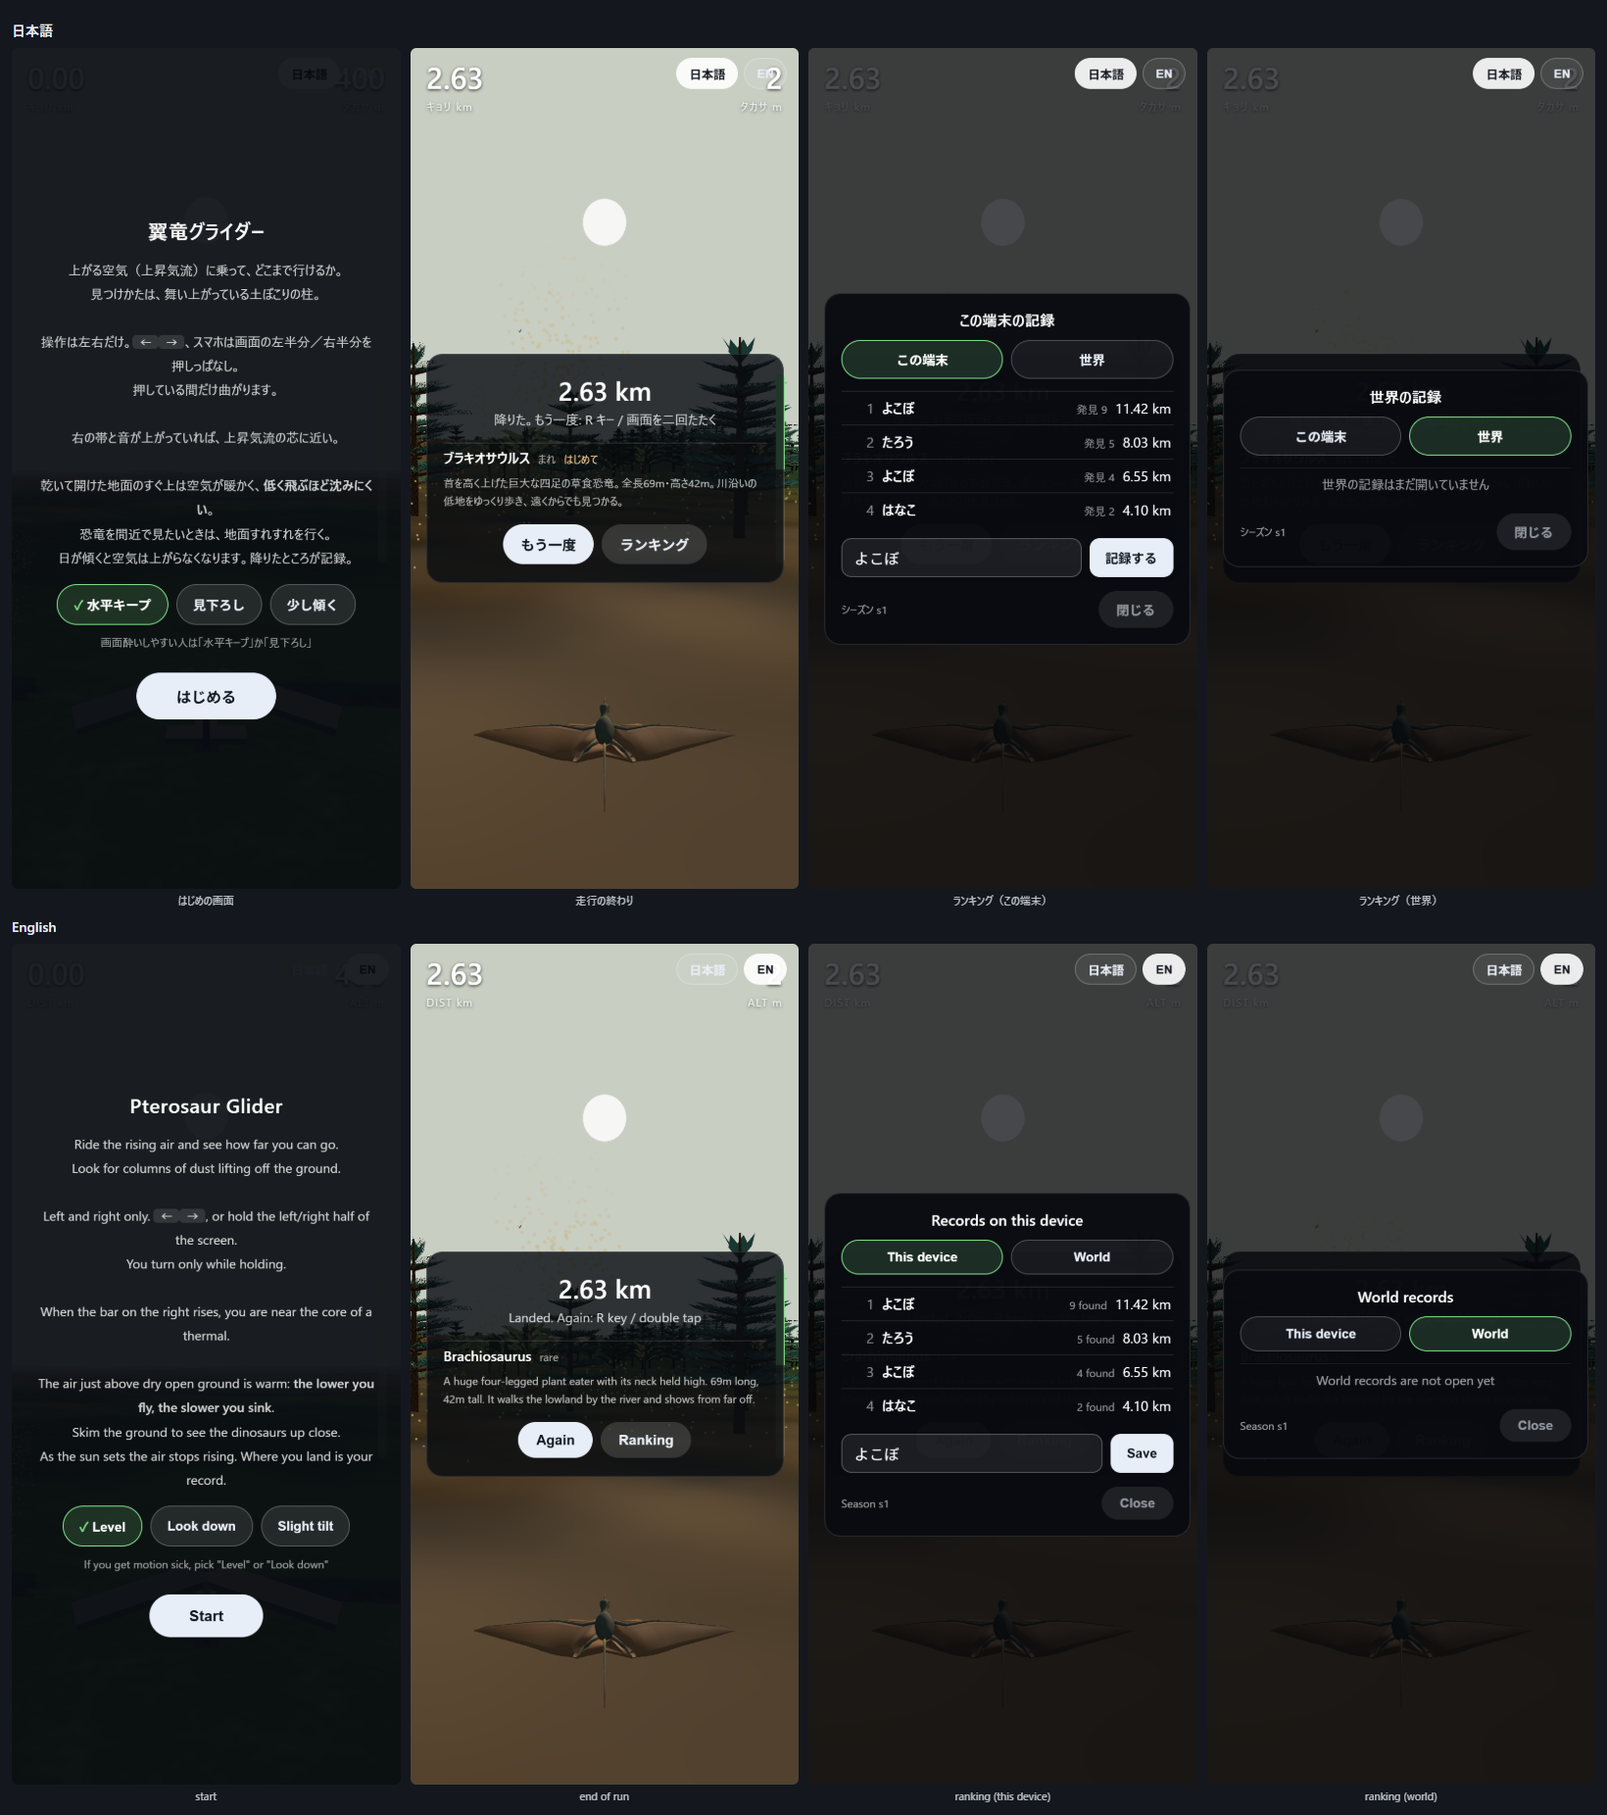
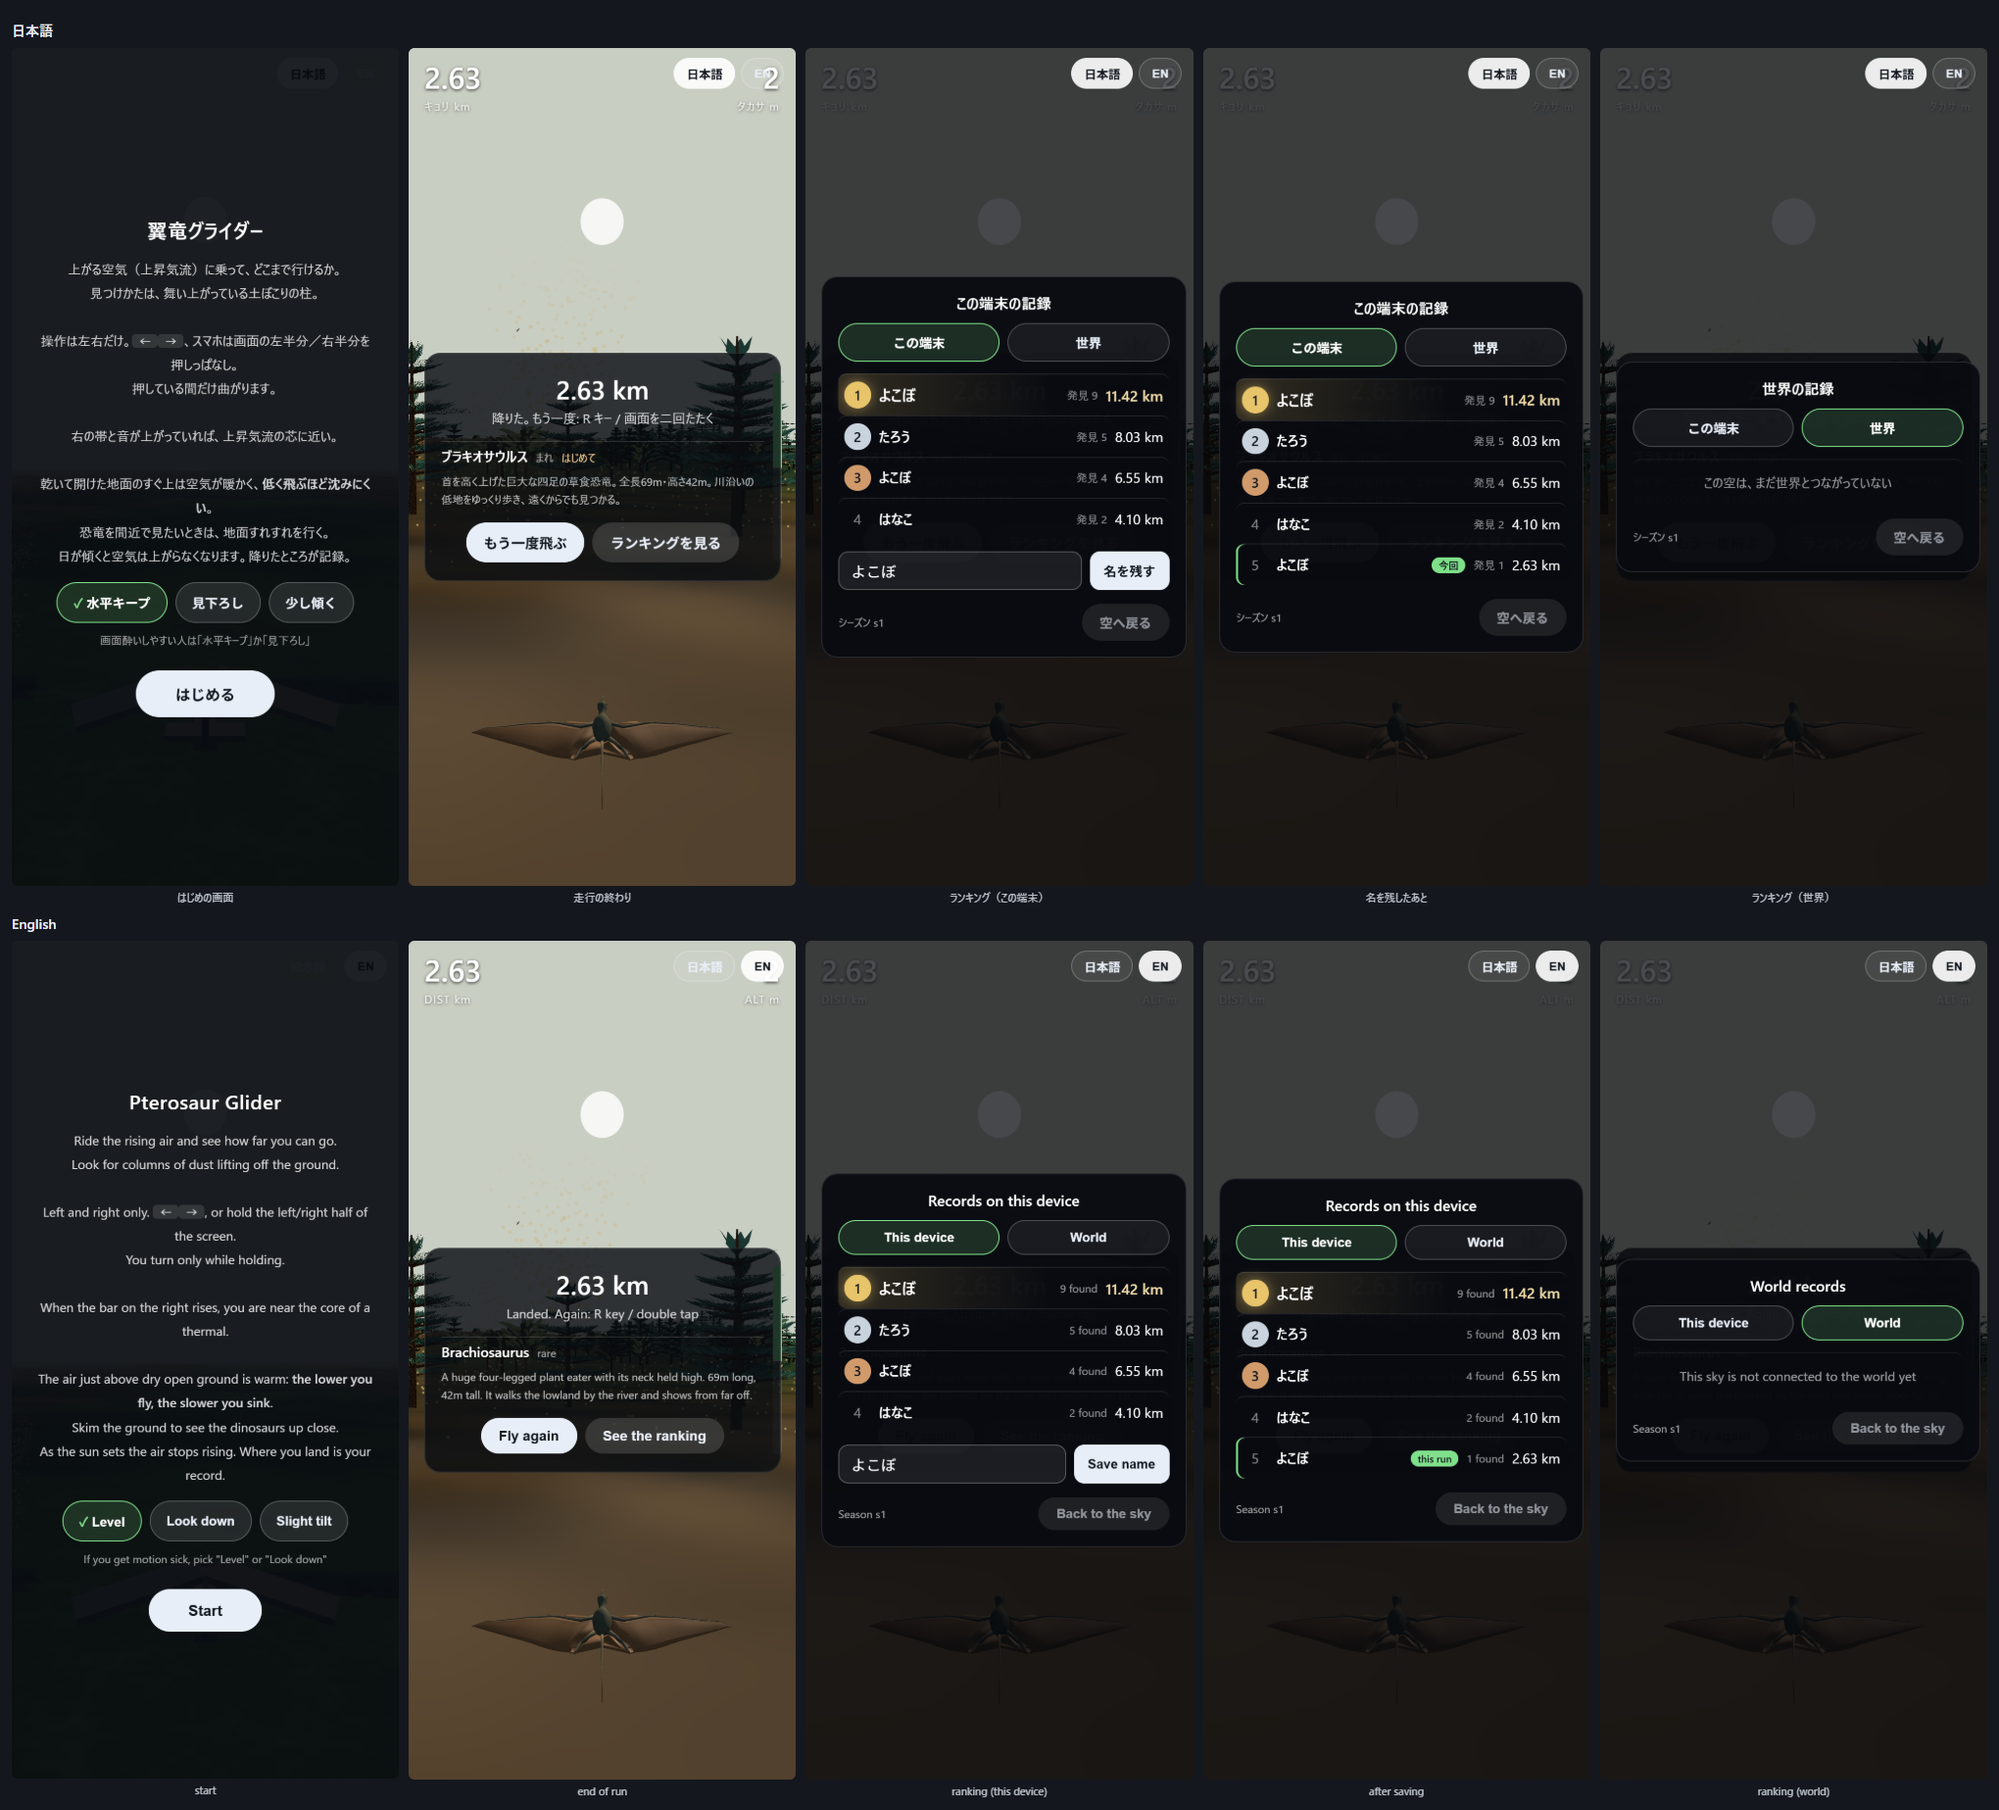
1〜3位を金銀銅で出し、文言に世界観を入れた
- 上の3つは金・銀・銅の丸。1位だけ行も光らせ、名前と距離を大きくする
- 今回の走行の行は、左の緑線と「今回」の印で示す(1位の金と色が喧嘩しないよう別の出し方に)
- 文言: 「もう一度飛ぶ」「ランキングを見る」「名を残す」「空へ戻る」。
  世界のタブは「この空は、まだ世界とつながっていない」
- 名前は画面に出す前に逃がす(世界の記録を受け取るときに効く)

検査に「1〜3位に金銀銅の丸が付く / 4位以下には付かない / 1位は名前が大きい」を足し、
色と大きさを実際に測るようにした(記録4件をそろえてから測る)。check-records 全件 PASS。

diff --git a/index.html b/index.html
@@ -88,17 +88,31 @@
                      border:1px solid rgba(255,255,255,.22); background:rgba(255,255,255,.06); color:#e8eef7; }
   #rankTabs button[aria-selected="true"] { background:rgba(127,224,138,.16); border-color:#7fe08a; color:#fff; }
   #rankList { list-style:none; }
-  #rankList li { display:flex; gap:8px; align-items:baseline; padding:7px 2px; border-top:1px solid rgba(255,255,255,.1); font-size:14px; }
-  #rankList li i { font-style:normal; opacity:.5; width:2.2em; text-align:right; font-variant-numeric:tabular-nums; }
+  #rankList li { display:flex; gap:8px; align-items:center; padding:7px 6px; border-top:1px solid rgba(255,255,255,.1);
+                 font-size:14px; border-radius:8px; }
+  #rankList li i { font-style:normal; opacity:.5; flex:none; width:1.9em; height:1.9em; display:grid; place-items:center;
+                   border-radius:50%; font-variant-numeric:tabular-nums; }
   #rankList li b { font-weight:600; flex:1; overflow:hidden; text-overflow:ellipsis; white-space:nowrap; }
   #rankList li u { text-decoration:none; font-size:11px; opacity:.55; }
   #rankList li span { font-variant-numeric:tabular-nums; }
-  #rankList li.me { color:#ffd79a; }
-  #rankList .none { justify-content:center; opacity:.6; font-size:13px; }
+  /* 上の3つは金・銀・銅。1位だけ行も光らせる */
+  #rankList li.top i { opacity:1; color:#10151d; font-weight:700; }
+  #rankList li.top1 i { background:#e8c46a; box-shadow:0 0 12px rgba(232,196,106,.5); }
+  #rankList li.top2 i { background:#c9d3dd; }
+  #rankList li.top3 i { background:#d09a6a; }
+  #rankList li.top1 { background:linear-gradient(90deg,rgba(232,196,106,.18),rgba(232,196,106,0) 65%); }
+  #rankList li.top1 b { font-size:16px; font-weight:700; }
+  #rankList li.top1 span { font-size:15px; font-weight:650; color:#f2dda8; }
+  /* 今回の走行の行 */
+  #rankList li.me { box-shadow:inset 2px 0 0 #7fe08a; }
+  #rankList li.me em { font-style:normal; font-size:10px; font-weight:650; color:#10151d;
+                       background:#7fe08a; border-radius:999px; padding:1px 7px; }
+  #rankList .none { justify-content:center; opacity:.6; font-size:13px; padding:14px 0; }
   #rankName { display:flex; gap:8px; margin-top:12px; }
   #rankName input { flex:1; padding:10px 12px; font-size:15px; border-radius:10px; border:1px solid rgba(255,255,255,.25);
                     background:rgba(255,255,255,.08); color:#fff; -webkit-user-select:text; user-select:text; }
-  #rankName button { padding:10px 16px; font-size:13px; border:0; border-radius:10px; background:#e8eef7; color:#10151d; font-weight:650; }
+  #rankName button { padding:10px 14px; font-size:13px; border:0; border-radius:10px; background:#e8eef7; color:#10151d;
+                      font-weight:650; white-space:nowrap; flex:none; }
   #rankFoot { display:flex; justify-content:space-between; align-items:center; margin-top:14px; font-size:11px; opacity:.6; }
   #rankFoot button { padding:9px 18px; font-size:13px; border:0; border-radius:999px; background:rgba(255,255,255,.14); color:#e8eef7; font-weight:650; opacity:1; }
   /* 言語の切り替え(スタート画面の隅) */

diff --git a/src/i18n.js b/src/i18n.js
@@ -22,15 +22,15 @@ const DICT = {
     endLanded: '降りた。もう一度: R キー / 画面を二回たたく',
     foundNone: '今回の発見はなし',
     foundFirst: 'はじめて',
-    again: 'もう一度', ranking: 'ランキング',
+    again: 'もう一度飛ぶ', ranking: 'ランキングを見る',
     rankMine: 'この端末', rankWorld: '世界',
     rankHeadMine: 'この端末の記録', rankHeadWorld: '世界の記録',
-    rankEmpty: 'まだ記録がない',
-    rankWorldOff: '世界の記録はまだ開いていません',
-    rankWorldFail: '世界の記録を読めませんでした',
+    rankEmpty: 'まだ記録がない', rankEmptyWorld: 'まだ誰も飛んでいない',
+    rankWorldOff: 'この空は、まだ世界とつながっていない',
+    rankWorldFail: '世界の空につながらなかった',
     rankLoading: '読み込み中…',
-    namePlace: 'なまえ', save: '記録する', saved: '記録した',
-    close: '閉じる', thisRun: '今回',
+    namePlace: 'なまえ', save: '名を残す', saved: '残した',
+    close: '空へ戻る', thisRun: '今回',
     season: 'シーズン',
     discoveries: n => `発見 ${n}`,
     km: 'km',
@@ -55,15 +55,15 @@ const DICT = {
     endLanded: 'Landed. Again: R key / double tap',
     foundNone: 'Nothing found this run',
     foundFirst: 'first time',
-    again: 'Again', ranking: 'Ranking',
+    again: 'Fly again', ranking: 'See the ranking',
     rankMine: 'This device', rankWorld: 'World',
     rankHeadMine: 'Records on this device', rankHeadWorld: 'World records',
-    rankEmpty: 'No records yet',
-    rankWorldOff: 'World records are not open yet',
-    rankWorldFail: 'Could not load the world records',
+    rankEmpty: 'No records yet', rankEmptyWorld: 'No one has flown yet',
+    rankWorldOff: 'This sky is not connected to the world yet',
+    rankWorldFail: 'Could not reach the world',
     rankLoading: 'Loading…',
-    namePlace: 'name', save: 'Save', saved: 'Saved',
-    close: 'Close', thisRun: 'this run',
+    namePlace: 'name', save: 'Save name', saved: 'Saved',
+    close: 'Back to the sky', thisRun: 'this run',
     season: 'Season',
     discoveries: n => `${n} found`,
     km: 'km',

diff --git a/src/main.js b/src/main.js
@@ -155,10 +155,15 @@ async function loadWorld() {
   renderRank();
 }
 
+const esc = v => String(v).replace(/[&<>"]/g, c => ({ '&': '&amp;', '<': '&lt;', '>': '&gt;', '"': '&quot;' }[c]));
+
 function rowHTML(r, i, mark) {
   const me = r.at && r.at === mark;
+  const rank = i + 1;                       // 上位3つは金・銀・銅の丸で出す
+  const cls = [rank <= 3 ? `top top${rank}` : '', me ? 'me' : ''].filter(Boolean).join(' ');
   const found = r.found ? `<u>${t('discoveries', r.found)}</u>` : '';
-  return `<li class="${me ? 'me' : ''}"><i>${i + 1}</i><b>${r.name}</b>${found}<span>${r.km.toFixed(2)} ${t('km')}</span></li>`;
+  return `<li class="${cls}"><i>${rank}</i><b>${esc(r.name)}</b>${me ? `<em>${t('thisRun')}</em>` : ''}` +
+         `${found}<span>${r.km.toFixed(2)} ${t('km')}</span></li>`;
 }
 
 function renderRank(mark) {
@@ -171,7 +176,7 @@ function renderRank(mark) {
   if (!mine && worldState !== 'ok') {
     ui.rankList.innerHTML = `<li class="none">${t(worldState === 'loading' ? 'rankLoading' : worldState === 'fail' ? 'rankWorldFail' : 'rankWorldOff')}</li>`;
   } else if (!rows || !rows.length) {
-    ui.rankList.innerHTML = `<li class="none">${t('rankEmpty')}</li>`;
+    ui.rankList.innerHTML = `<li class="none">${t(mine ? 'rankEmpty' : 'rankEmptyWorld')}</li>`;
   } else {
     ui.rankList.innerHTML = rows.map((r, i) => rowHTML(r, i, mark)).join('');
   }

diff --git a/README.md b/README.md
@@ -115,11 +115,13 @@ npm run dev     # http://localhost:8141
 | この端末 | 上位20件（距離の大きい順）。名前は次から覚えている | `localStorage` |
 | 世界 | 全員ぶんを距離の大きい順 | まだ開いていない（`WORLD_API` が空のあいだは「まだ開いていません」と出す） |
 
-- **名前を付けずに「もう一度」を押しても記録は消えない**。そのときは覚えている名前（無ければ「ななし」）で残す
+- **上の3つは金・銀・銅の丸**で出し、1位だけ行も光らせて名前と距離を大きくする。
+  今回の走行の行には左に緑の線と「今回」の印を付ける（1位の金と色が喧嘩しないように別の出し方にした）
+- **名前を付けずに「もう一度飛ぶ」を押しても記録は消えない**。そのときは覚えている名前（無ければ「ななし」）で残す
 - シーズン（`SEASON`）は**大きく作り変えたときに変える**印。世界の記録はシーズンごとに分ける。
   週替わりにはしない（同じ地形を覚えて詰める遊びを、週で切ると捨てることになる）
 - 種は**毎回ちがう**ままにしてある（所長の判断。厳密な公平さを競う遊びではない）。記録には種を一緒に残す
-- 検査は `tools/check-records.mjs`（画面の並び・押せること・名前・並び順・消えないこと・英語）。
+- 検査は `tools/check-records.mjs`（画面の並び・押せること・名前・並び順・消えないこと・英語・上位3つの色と大きさ）。
   絵は `tools/look-records.mjs`
 
 ## 歩く恐竜を足す
